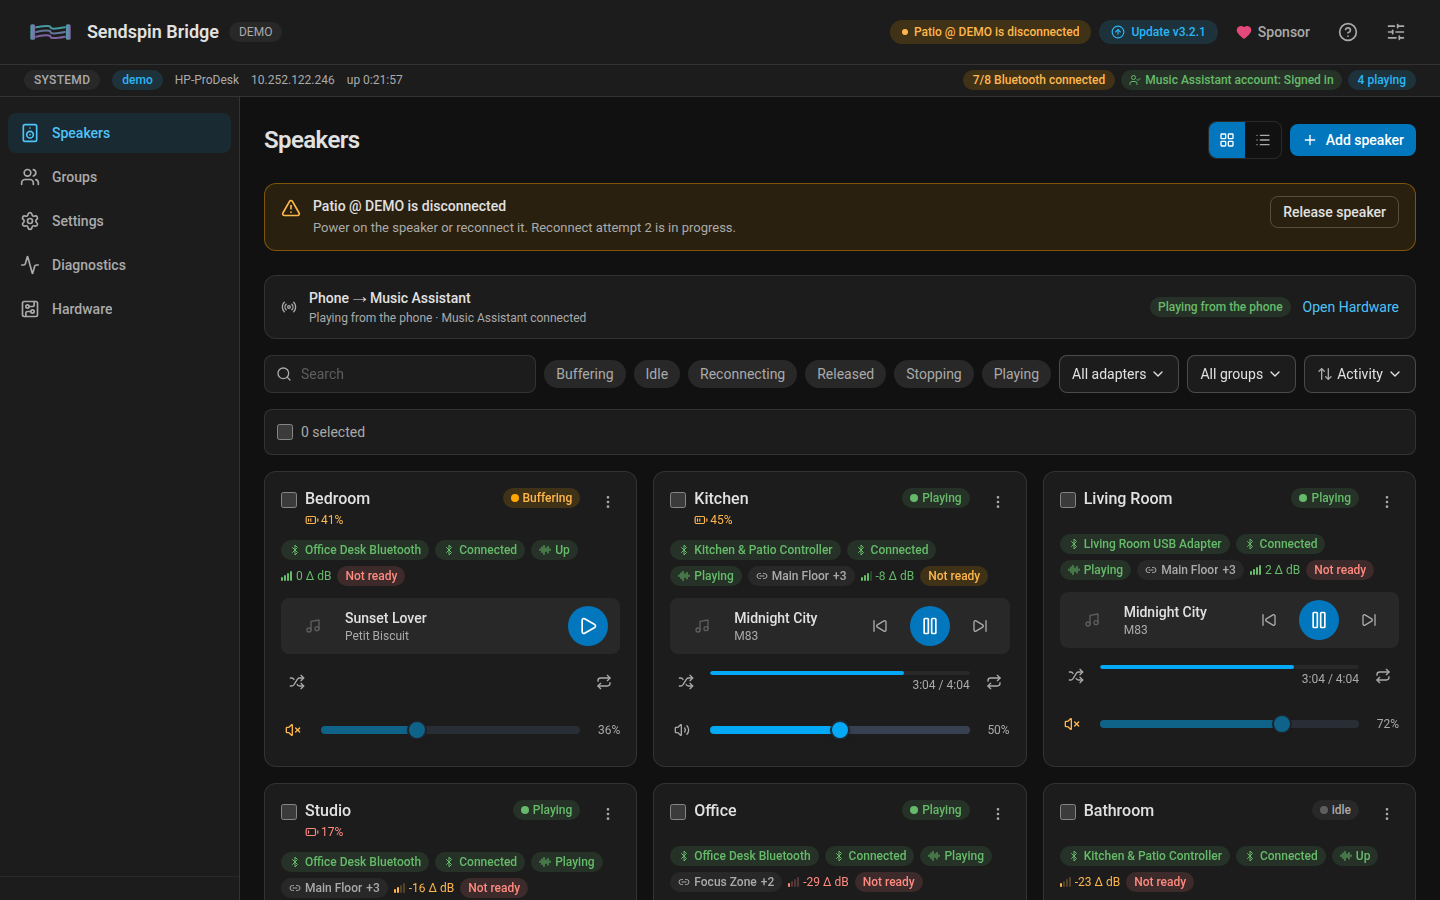
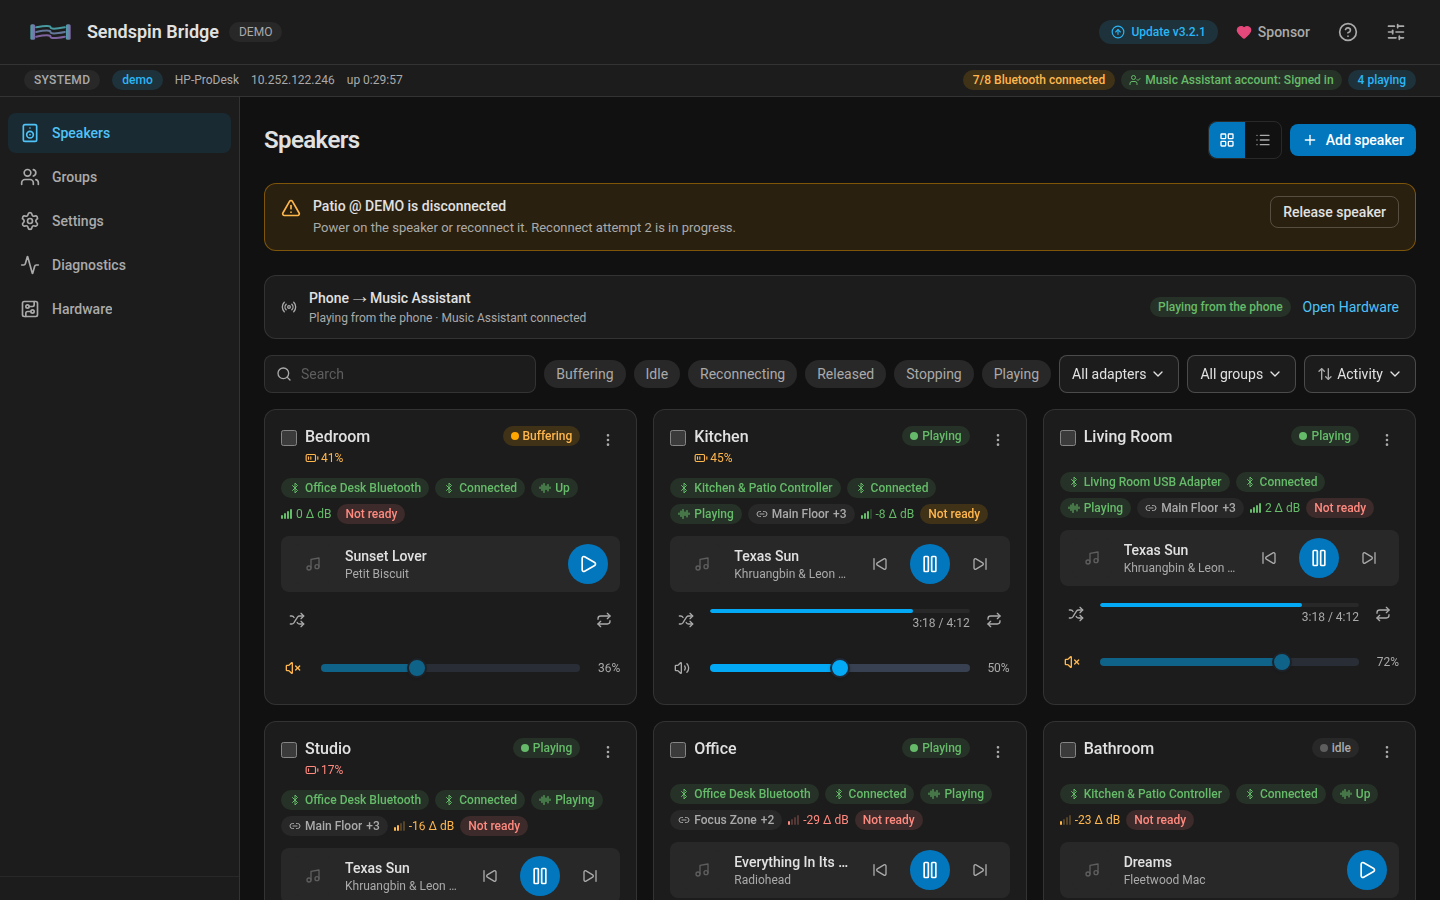
feat(ui): add the first-run checklist and calm the Speakers page
Three steps a new install needs — a speaker, a Music Assistant sign-in,
and the phone source enabled and paired — now show as a checklist with
progress, links to the control and a remembered hide action.

The bulk-action bar appears only once something is selected, and the
problem status on the Speakers page is the actionable banner alone; the
header pill keeps it on every other page.

diff --git a/ui/src/components/hardware/FirstRunChecklist.vue b/ui/src/components/hardware/FirstRunChecklist.vue
@@ -1,0 +1,105 @@
+<script setup lang="ts">
+import { computed, ref } from 'vue'
+import { useI18n } from 'vue-i18n'
+import { Check, ChevronRight } from 'lucide-vue-next'
+import { useBridgeStore } from '@/stores/bridge'
+
+/**
+ * The three things a new install needs, in the order they make sound.  It is
+ * advisory, not a wizard: every row links to the control that does the work,
+ * a completed step ticks itself off, and the whole card disappears once the
+ * bridge can play — or when the operator hides it.
+ */
+const { t } = useI18n()
+const bridge = useBridgeStore()
+const emit = defineEmits<{ addSpeaker: [] }>()
+
+const DISMISS_KEY = 'sendspin-ui:first-run-dismissed'
+const dismissed = ref(localStorage.getItem(DISMISS_KEY) === '1')
+
+const source = computed(() => bridge.bridge?.sendspin_source ?? null)
+const phoneReady = computed(
+  () => !!source.value?.enabled && !!source.value?.ma_paired && !!(source.value?.paired_phone_mac || source.value?.phone_mac),
+)
+
+type Step = { id: string; done: boolean; label: string; action: string; href?: string }
+const steps = computed<Step[]>(() => [
+  { id: 'speaker', done: bridge.devices.length > 0, label: t('home.checklist.speaker'), action: t('home.checklist.speakerAction') },
+  { id: 'ma', done: bridge.maConnected, label: t('home.checklist.ma'), action: t('home.checklist.maAction'), href: '/config#settings-musicAssistant' },
+  { id: 'phone', done: phoneReady.value, label: t('home.checklist.phone'), action: t('home.checklist.phoneAction'), href: '/hardware' },
+])
+const doneCount = computed(() => steps.value.filter((step) => step.done).length)
+const show = computed(() => !dismissed.value && !bridge.loading && !!bridge.bridge && doneCount.value < steps.value.length)
+
+function dismiss() {
+  dismissed.value = true
+  try {
+    localStorage.setItem(DISMISS_KEY, '1')
+  } catch {
+    /* private mode: hidden for this visit */
+  }
+}
+</script>
+
+<template>
+  <section
+    v-if="show"
+    data-first-run
+    class="mb-4 rounded-(--radius-card) border border-border bg-surface-card px-4 py-3"
+    :aria-label="t('home.checklist.title')"
+  >
+    <div class="flex items-center gap-3">
+      <h2 class="text-sm font-semibold text-text-primary">{{ t('home.checklist.title') }}</h2>
+      <p data-first-run-progress class="text-xs text-text-secondary">
+        {{ t('home.checklist.progress', { done: doneCount, total: steps.length }) }}
+      </p>
+      <button
+        type="button"
+        data-first-run-dismiss
+        class="ml-auto rounded-(--radius-button) px-2 py-1 text-xs text-text-secondary hover:bg-surface-secondary hover:text-text-primary"
+        :aria-label="t('home.checklist.dismiss')"
+        @click="dismiss"
+      >
+        {{ t('home.checklist.dismiss') }}
+      </button>
+    </div>
+
+    <ul class="mt-2 divide-y divide-border">
+      <li
+        v-for="step in steps"
+        :key="step.id"
+        :data-step="step.id"
+        :data-done="String(step.done)"
+        class="flex flex-wrap items-center gap-x-3 gap-y-1 py-2 text-sm"
+      >
+        <span
+          class="inline-flex size-5 shrink-0 items-center justify-center rounded-full border"
+          :class="step.done ? 'border-success bg-success/10 text-success' : 'border-border-strong text-text-tertiary'"
+          aria-hidden="true"
+        >
+          <Check v-if="step.done" class="size-3" />
+        </span>
+        <span class="min-w-0 flex-1" :class="step.done ? 'text-text-secondary line-through' : 'text-text-primary'">
+          {{ step.label }}
+        </span>
+        <button
+          v-if="step.id === 'speaker'"
+          type="button"
+          class="inline-flex items-center gap-0.5 text-sm text-primary-text underline underline-offset-2"
+          @click="emit('addSpeaker')"
+        >
+          {{ step.action }}
+          <ChevronRight class="size-3.5" aria-hidden="true" />
+        </button>
+        <RouterLink
+          v-else
+          :to="step.href!"
+          class="inline-flex items-center gap-0.5 text-sm text-primary-text underline underline-offset-2"
+        >
+          {{ step.action }}
+          <ChevronRight class="size-3.5" aria-hidden="true" />
+        </RouterLink>
+      </li>
+    </ul>
+  </section>
+</template>

diff --git a/ui/tests/component/home/FirstRunChecklist.test.ts b/ui/tests/component/home/FirstRunChecklist.test.ts
@@ -1,0 +1,78 @@
+import { describe, it, expect, beforeEach } from 'vitest'
+import { mount } from '@vue/test-utils'
+import { createPinia, setActivePinia } from 'pinia'
+import { createI18n } from 'vue-i18n'
+import FirstRunChecklist from '@/components/hardware/FirstRunChecklist.vue'
+import { useBridgeStore } from '@/stores/bridge'
+import en from '@/i18n/locales/en.json'
+
+const i18n = createI18n({ legacy: false, locale: 'en', messages: { en } })
+
+function setBridge({ devices = 0, maConnected = false, source = null, loading = false } = {}) {
+  useBridgeStore().loading = loading
+  useBridgeStore().snapshot = {
+    bridge: { ma_connected: maConnected, sendspin_source: source },
+    devices: Array.from({ length: devices }, (_, i) => ({ id: String(i) })),
+    groups: [],
+  } as never
+}
+
+function mountChecklist() {
+  return mount(FirstRunChecklist, {
+    global: {
+      plugins: [i18n],
+      stubs: { RouterLink: { props: ['to'], template: '<a :href="String(to)"><slot /></a>' } },
+    },
+  })
+}
+
+describe('Home: first steps checklist', () => {
+  beforeEach(() => {
+    setActivePinia(createPinia())
+    localStorage.clear()
+  })
+
+  it('shows the three steps and the progress on a fresh bridge', () => {
+    setBridge()
+    const list = mountChecklist()
+    expect(list.find('[data-first-run]').exists()).toBe(true)
+    expect(list.get('[data-first-run-progress]').text()).toContain(en.home.checklist.progress.replace('{done}', '0').replace('{total}', '3'))
+    expect(list.get('[data-step="speaker"]').text()).toContain(en.home.checklist.speaker)
+    expect(list.get('[data-step="ma"]').text()).toContain(en.home.checklist.ma)
+    expect(list.get('[data-step="phone"]').text()).toContain(en.home.checklist.phone)
+    expect(list.get('[data-step="speaker"]').attributes('data-done')).toBe('false')
+  })
+
+  it('marks a step done and counts it', () => {
+    setBridge({ devices: 2, maConnected: true })
+    const list = mountChecklist()
+    expect(list.get('[data-step="speaker"]').attributes('data-done')).toBe('true')
+    expect(list.get('[data-step="ma"]').attributes('data-done')).toBe('true')
+    expect(list.get('[data-first-run-progress]').text()).toContain('2')
+  })
+
+  it('disappears when every step is done', () => {
+    setBridge({
+      devices: 1,
+      maConnected: true,
+      source: { enabled: true, ma_paired: true, paired_phone_mac: '34:C7:E9:25:A3:A3' },
+    })
+    expect(mountChecklist().find('[data-first-run]').exists()).toBe(false)
+  })
+
+  it('asks the page to open the add-speaker dialog', async () => {
+    setBridge()
+    const list = mountChecklist()
+    await list.get('[data-step="speaker"] button, [data-step="speaker"] a').trigger('click')
+    expect(list.emitted('addSpeaker')).toHaveLength(1)
+  })
+
+  it('hides itself for good once dismissed', async () => {
+    setBridge()
+    const first = mountChecklist()
+    await first.get('[data-first-run-dismiss]').trigger('click')
+    expect(first.find('[data-first-run]').exists()).toBe(false)
+    expect(localStorage.getItem('sendspin-ui:first-run-dismissed')).toBe('1')
+    expect(mountChecklist().find('[data-first-run]').exists()).toBe(false)
+  })
+})

diff --git a/ui/src/views/HomeView.vue b/ui/src/views/HomeView.vue
@@ -18,6 +18,7 @@ import GroupActionBar from '@/components/devices/GroupActionBar.vue'
 import AddSpeakerDialog from '@/components/bluetooth/AddSpeakerDialog.vue'
 import GuidanceBanner from '@/components/GuidanceBanner.vue'
 import SourceSummaryCard from '@/components/hardware/SourceSummaryCard.vue'
+import FirstRunChecklist from '@/components/hardware/FirstRunChecklist.vue'
 import DisabledPlayerCard from '@/components/devices/DisabledPlayerCard.vue'
 import DisabledPlayerRow from '@/components/devices/DisabledPlayerRow.vue'
 import StatusState from '@/components/StatusState.vue'
@@ -291,6 +292,8 @@ watch(
     <template v-else>
       <GuidanceBanner />
 
+      <FirstRunChecklist @add-speaker="scanModalOpen = true" />
+
       <SourceSummaryCard />
 
       <!-- From md up the header's runtime row carries these. -->
@@ -411,7 +414,7 @@ watch(
 
       <!-- Group action bar -->
       <GroupActionBar
-        v-if="showGroupBar"
+        v-if="showGroupBar && selection.selectedCount.value > 0"
         :devices="deviceStore.filteredDevices"
         :total="deviceStore.filteredPlayers.length"
         :selected-count="selection.selectedCount.value"

diff --git a/ui/src/components/layout/AppHeader.vue b/ui/src/components/layout/AppHeader.vue
@@ -1,7 +1,7 @@
 <script setup lang="ts">
 import { computed, onMounted, ref } from 'vue'
 import { useI18n } from 'vue-i18n'
-import { useRouter } from 'vue-router'
+import { useRoute, useRouter } from 'vue-router'
 import { technicalDetails, setTechnicalDetails } from '@/composables/useTechnicalDetails'
 import { useTheme } from '@/composables/useTheme'
 import { useBridgeStore } from '@/stores/bridge'
@@ -17,6 +17,7 @@ import { describeStatus } from '@/composables/useStatusState'
 import { availableLocales, chooseLocale, languageName } from '@/i18n'
 
 const { t, te, locale } = useI18n()
+const route = useRoute()
 const router = useRouter()
 const { mode, embedded } = useTheme()
 const bridge = useBridgeStore()
@@ -113,7 +114,7 @@ const iconButton =
           <span class="truncate">{{ embeddedPill.label }}</span>
         </button>
         <button
-          v-else-if="status"
+          v-else-if="status && route.name !== 'home'"
           type="button"
           class="hidden max-w-64 items-center gap-1.5 truncate rounded-full px-3 py-1 text-xs font-medium md:inline-flex"
           :class="statusClass[status.tone] ?? 'tone-neutral'"

diff --git a/ui/tests/component/layout/AppHeader.test.ts b/ui/tests/component/layout/AppHeader.test.ts
@@ -4,7 +4,7 @@ import { createI18n } from 'vue-i18n'
 import AppHeader from '@/components/layout/AppHeader.vue'
 import en from '@/i18n/locales/en.json'
 
-vi.mock('vue-router', () => ({ useRouter: () => ({ push: vi.fn() }) }))
+vi.mock('vue-router', () => ({ useRouter: () => ({ push: vi.fn() }), useRoute: () => ({ name: 'diagnostics' }) }))
 vi.mock('@/stores/bridge', () => ({ useBridgeStore: () => ({ bridge: null, fetchBridge: vi.fn(), fetch: vi.fn() }) }))
 vi.mock('@/stores/update', () => ({
   useUpdateStore: () => ({ updateAvailable: true, latestVersion: '9.9.9', openDialog: vi.fn(), fetchInfo: vi.fn() }),

diff --git a/docs/ux/audit-2026-11.md b/docs/ux/audit-2026-11.md
@@ -115,6 +115,8 @@ Recommendation: two phases. Phase 1 — five contained fixes (contrast tokens, a
 | 4 | **Технические детали под disclosure** | node names, ws URL, PulseAudio — в «Технические детали» (уважать существующий тумблер и preference), по умолчанию свёрнуто | на Hardware и в Source нет технических строк без раскрытия | S |
 | 5 | **Чек-лист первого запуска** | 3 шага на главной: колонка → Music Assistant → телефон-источник; прогресс из существующих статусов; скрывается при готовности | новый пользователь проходит путь без похода в Hardware и Settings «наугад» | M |
 
+**Статус фазы 1.3–1.5: реализовано.** 1.3 — панель массовых действий скрыта при пустом выборе, проблема на главной показывается один раз (баннер), дублирующая пилюля в шапке на главной убрана. 1.4 — технические строки источника (узел захвата, ws URL) остаются за `SHOW_TECHNICAL_DETAILS`, по умолчанию выключенным. 1.5 — чек-лист «колонка → Music Assistant → телефон-источник» с прогрессом и скрытием. Скриншоты: `after/`.
+
 **Статус фазы 1.1–1.2: реализовано.** Токены статусов, ссылок и вторичного текста пересчитаны под AA в обеих темах; разметка логов, порядок заголовков, landmark-регионы и accessible name чипов исправлены. Полный прогон axe (все правила) по семи маршрутам в light/dark/mobile: **0 нарушений** (`docs/ux/audit-2026-11/axe-after-all.json`), было 380 узлов.
 
 ### Фаза 2 — информационная архитектура (после фазы 1)

diff --git a/CHANGELOG.md b/CHANGELOG.md
@@ -7,7 +7,13 @@ and this project adheres to [Semantic Versioning](https://semver.org/spec/v2.0.0
 
 ## [Unreleased]
 
+### Added
+
+- A first-run checklist on the Speakers page: add a speaker, sign in to Music Assistant, enable and pair the phone source. It tracks progress and can be hidden.
+
 ### Changed
+
+- The Speakers page shows its bulk-action bar only when something is selected, and a problem appears once — as the actionable banner — instead of also as a duplicate header pill on that page.
 
 - Music Assistant pairing moved from the Hardware page to Settings → Music Assistant, next to the account it belongs to; the Hardware page keeps the connection status and links there.
 - After the phone pairs over Bluetooth, the Hardware page points to the Music Assistant pairing when the bridge is not paired yet, instead of leaving two unrelated actions on one screen.
